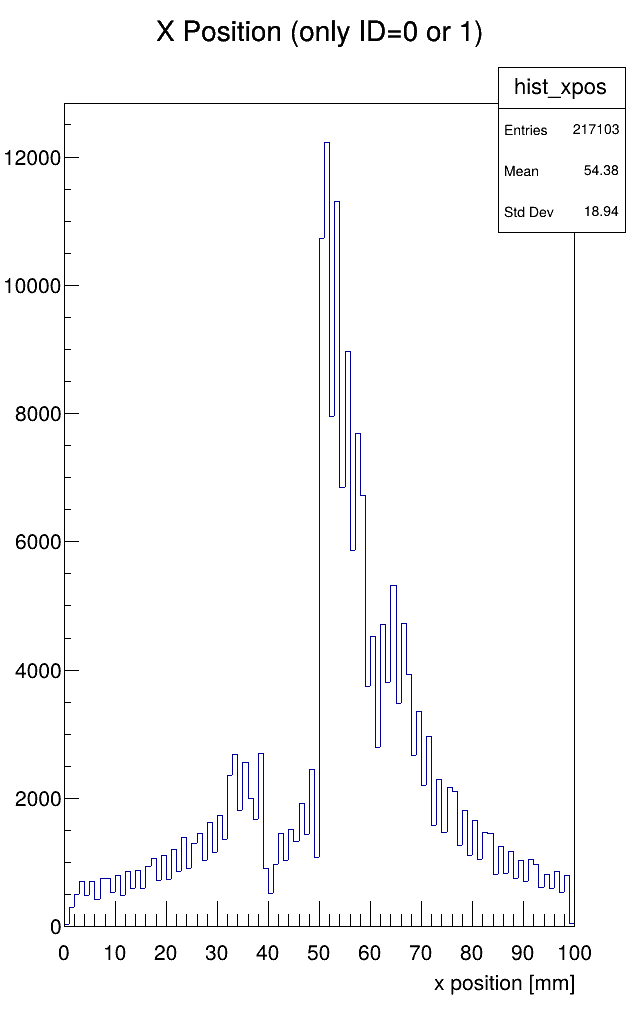
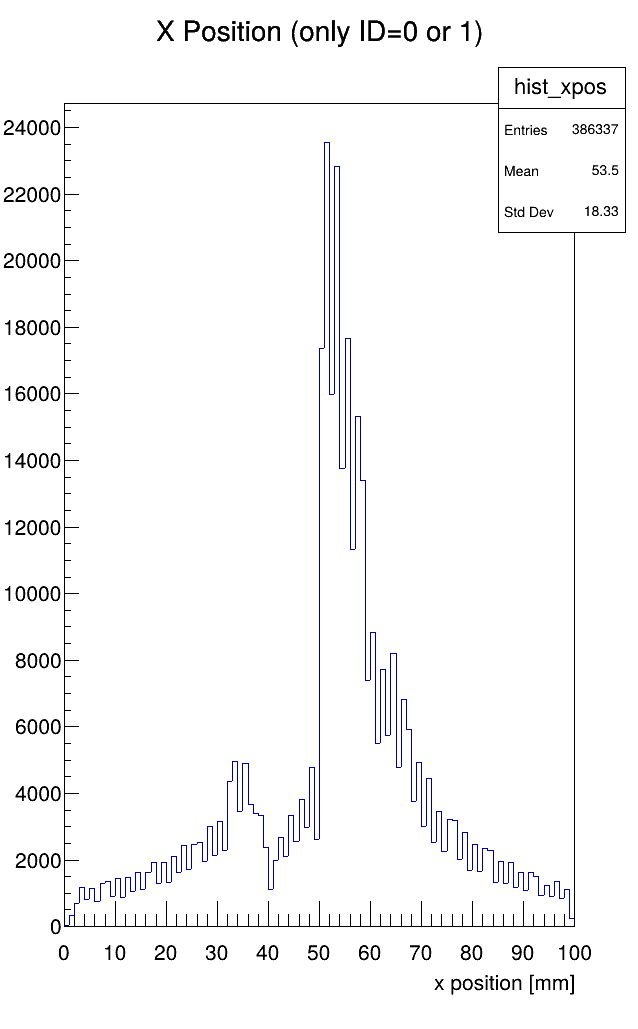
cluster count

diff --git a/src/read_data.py b/src/read_data.py
@@ -40,6 +40,9 @@ for i in range(n):
 hist_xpos = ROOT.TH1F("hist_xpos", "X Position (only ID=0 or 1);x position [mm];counts", 100, 0, 100)
 hist_ypos = ROOT.TH1F("hist_ypos", "Y Position (only ID=2 or 3);y position [mm];counts", 100, 0, 100)
 hist_charge = ROOT.TH1F("hist_charge", "title", 100, 0, 2500)
+hist_apv = ROOT.TH1F("hist_apv", "APV ID", 4, 0, 4)
+hist_apv_ch = ROOT.TH1F("hist_apv_ch", "APV CH", 128, 0, 128)
+hist_cluster = ROOT.TH1F("hist_cluster", "Cluster size", 9, 1, 10)
 
 # Create 2D histogram: average X vs average Y
 hist_xy = ROOT.TH2F("hist_xy", "Average X vs Average Y;x position [mm];y position [mm]", 100, 0, 100, 100, 0, 100)
@@ -58,6 +61,7 @@ for entry_raw in raw_tree:
     y_pos = 0
     sum_y = 0
     num_hits_y = 0
+    cluster_count = 0
 
     # sort where a particle hit
     for i in range(num_hits):
@@ -75,14 +79,33 @@ for entry_raw in raw_tree:
         
         # id of the apv which registers event
         apv_id = entry_raw.apv_id[i]
+        apv_ch = entry_raw.apv_ch[i]
         strip = entry_raw.mm_strip[i]
         entry_raw.mm_strip.push_back(0)
         entry_raw.mm_strip.push_back(0)
 
+        hist_apv.Fill(apv_id)
+        hist_apv_ch.Fill(apv_ch)
+
+
+        if (strip + 1) == entry_raw.mm_strip[i+1]: 
+            cluster_count += 1
+        else:
+            cluster_count = 0
+
+        hist_cluster.Fill(cluster_count)
+
+
         # to filter noise. this value can be adjusted to get a desired gaussian profile
         # highest charge doesn't seem to be the events we are looking for. see hist_charge plot. low charge are the most events
         #if True:
-        if ((strip + 1) == entry_raw.mm_strip[i+1] and (strip + 1) == entry_raw.mm_strip[i+1] and max(charge) > 80 and max(charge) < 1000):
+        if (
+                ((strip + 1) == entry_raw.mm_strip[i+1] and (strip + 2) == entry_raw.mm_strip[i + 2])
+                or ((strip - 1) == entry_raw.mm_strip[i-1] and (strip + 1) == entry_raw.mm_strip[i + 1])
+                or ((strip - 1) == entry_raw.mm_strip[i-1] and (strip - 2) == entry_raw.mm_strip[i - 2])
+                and max(charge) > 80 
+                and max(charge) < 1000
+                ):
         #if ((strip + 1) != entry_raw.mm_strip[i+1] and (strip + 2) != entry_raw.mm_strip[i+2] and max(charge) > 80 and max(charge) < 1000):
             # x
             if apv_id in [0,1]:
@@ -93,6 +116,7 @@ for entry_raw in raw_tree:
                 # no weight
                 #sum_x += x_pos
                 #num_hits_x += 1
+
             # y
             if apv_id in [2,3]:
                 y_pos = ((strip + 128) % 256) * 100. / 256.
@@ -102,6 +126,7 @@ for entry_raw in raw_tree:
                 num_hits_y += max(charge)
                 #sum_y += y_pos
                 #num_hits_y += 1
+
 
     # average over all events
     # TODO weigh hits 
@@ -132,6 +157,15 @@ c.SaveAs("y_position_histogram.png")  # Optional: save plot
 
 hist_charge.Draw()
 c.SaveAs("hist_charge.png")
+
+hist_apv.Draw()
+c.SaveAs("hist_apv.png")
+
+hist_apv_ch.Draw()
+c.SaveAs("hist_apv_ch.png")
+
+hist_cluster.Draw()
+c.SaveAs("hist_cluster.png")
 
 # 2D hit map
 hist_xy.Draw("COLZ")
